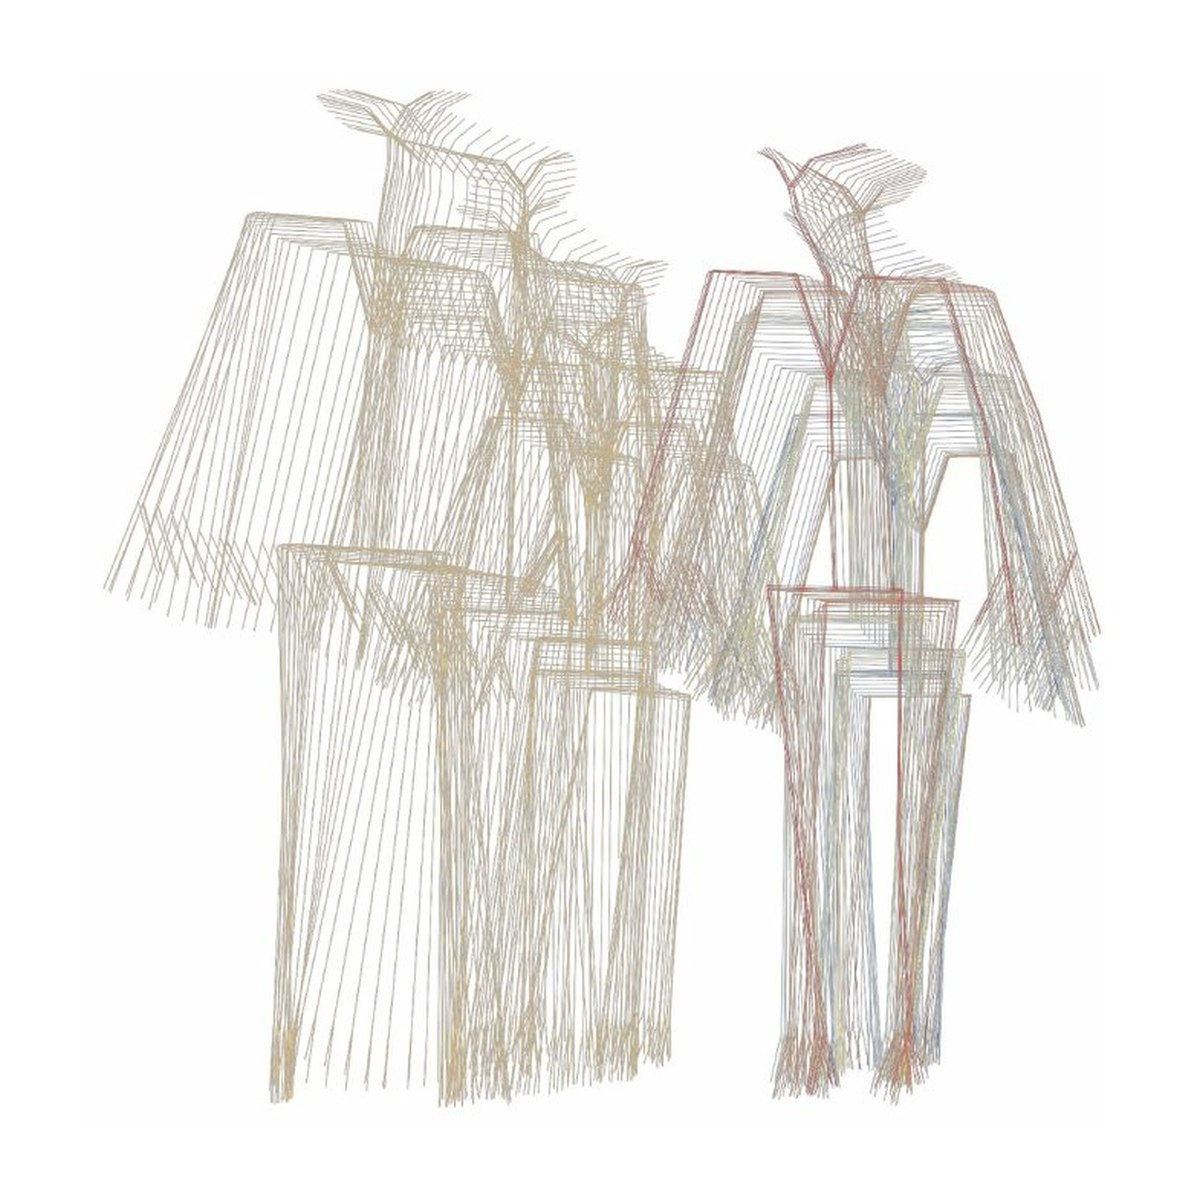
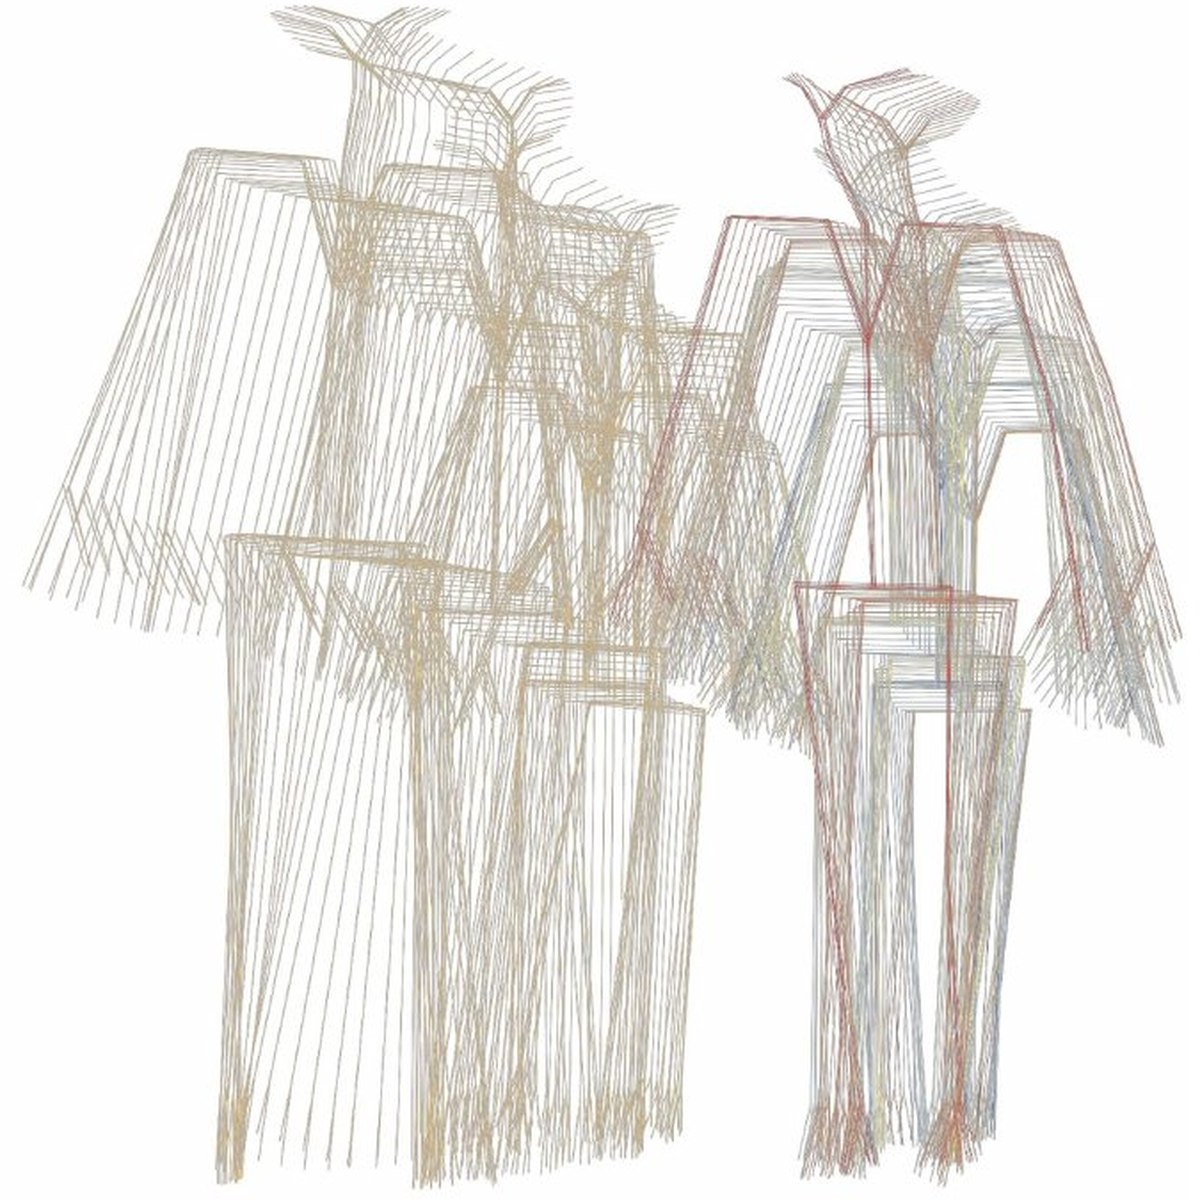
Covers fill the square — no margin
Each cover is now a square crop of the project's opening page scaled to
fill the tile edge to edge, instead of the artwork fitted on white.
Adds make_covers.py so the crop boxes can be retuned without touching
the page renders.

diff --git a/make_covers.py b/make_covers.py
@@ -1,0 +1,50 @@
+# -*- coding: utf-8 -*-
+"""Cut the square cover tiles in assets/cards/ from the rendered portfolio pages.
+
+Each cover is a square crop of that project's opening page, scaled to fill the
+tile edge to edge — no margin. Run `python3 make_covers.py` after changing a
+crop box; then `python3 build.py` if the project list itself changed.
+"""
+import os
+from PIL import Image
+
+SITE = os.path.dirname(os.path.abspath(__file__))
+PAGES = os.path.join(SITE, "assets/pages")
+CARDS = os.path.join(SITE, "assets/cards")
+SIZE = 1200
+
+# name -> (page, box)
+#   box = (x0, y0, x1, y1, ax, ay) as page fractions; the largest square that
+#         fits the box is taken, ax/ay place it when a side has to be cropped
+#         (0 = left/top, 0.5 = centre, 1 = right/bottom)
+#   box = ("px", left, top, side) to cut an exact square in page pixels instead
+COVERS = {
+    "liweaving":   (3,  (0.104, 0.158, 0.415, 0.802, 0.50, 0.50)),
+    "soundscape":  (11, (0.062, 0.165, 0.478, 0.845, 0.50, 0.50)),
+    "bodymr":      (18, (0.094, 0.230, 0.432, 0.778, 0.50, 0.50)),
+    "latentagent": (22, (0.107, 0.163, 0.413, 0.845, 0.50, 0.70)),
+    "medusa":      (34, (0.037, 0.182, 0.485, 0.848, 0.50, 0.50)),
+    # cut below the printed "Other Work4" label so it stays out of the cover
+    "heritage":    (35, ("px", 0, 172, 1160)),
+}
+
+
+def cut(page, box):
+    im = Image.open(os.path.join(PAGES, "p%02d.jpg" % page)).convert("RGB")
+    if box[0] == "px":
+        _, left, top, side = box
+        return im.crop((left, top, left + side, top + side))
+    x0, y0, x1, y1, ax, ay = box
+    pw, ph = im.size
+    art = im.crop((round(x0 * pw), round(y0 * ph), round(x1 * pw), round(y1 * ph)))
+    side = min(art.size)
+    left = round((art.width - side) * ax)
+    top = round((art.height - side) * ay)
+    return art.crop((left, top, left + side, top + side))
+
+
+if __name__ == "__main__":
+    for name, (page, box) in COVERS.items():
+        sq = cut(page, box).resize((SIZE, SIZE), Image.LANCZOS)
+        sq.save(os.path.join(CARDS, name + ".jpg"), "JPEG", quality=87, optimize=True)
+        print("%-12s <- p%02d" % (name, page))

diff --git a/README.md b/README.md
@@ -26,9 +26,12 @@ assets/
   pages/pNN.jpg       Portfolio page NN rendered at 1998 px wide  (full-res view)
   thumbs/pNN.jpg      Same page at 760 px                        (small screens)
                       Only the pages still referenced are kept in the repo.
-  cards/*.jpg         1200x1200 square tile for each project — the artwork from
-                      that project's own opening page, fitted on white. Index grid.
+  cards/*.jpg         1200x1200 square cover for each project — a square crop of
+                      that project's own opening page, filling the tile edge to
+                      edge. Cut by make_covers.py.
 build.py              Regenerates all seven HTML files from the ENTRIES list inside it
+make_covers.py        Re-cuts assets/cards/*.jpg from the page renders; crop boxes
+                      live in the COVERS dict at the top
 ```
 
 ## View locally
@@ -48,8 +51,11 @@ Structural changes (adding a project, reordering, changing captions): edit the
 
 A project is one dict in `RESEARCH` (numbered 01–04) or `WORKS` (05–06); its
 `plates` list is `(PDF page, short label, caption)`. To add a new project you also
-need its page images in `assets/pages/` + `assets/thumbs/`, and a cover crop in
-`assets/cards/`.
+need its page images in `assets/pages/` + `assets/thumbs/`, and an entry in the
+`COVERS` dict of `make_covers.py` to cut its square cover.
+
+To reframe an existing cover, edit its crop box in `make_covers.py` and re-run it —
+`build.py` does not need to run again unless the project list changed.
 
 ## Deploy to GitHub Pages
 
